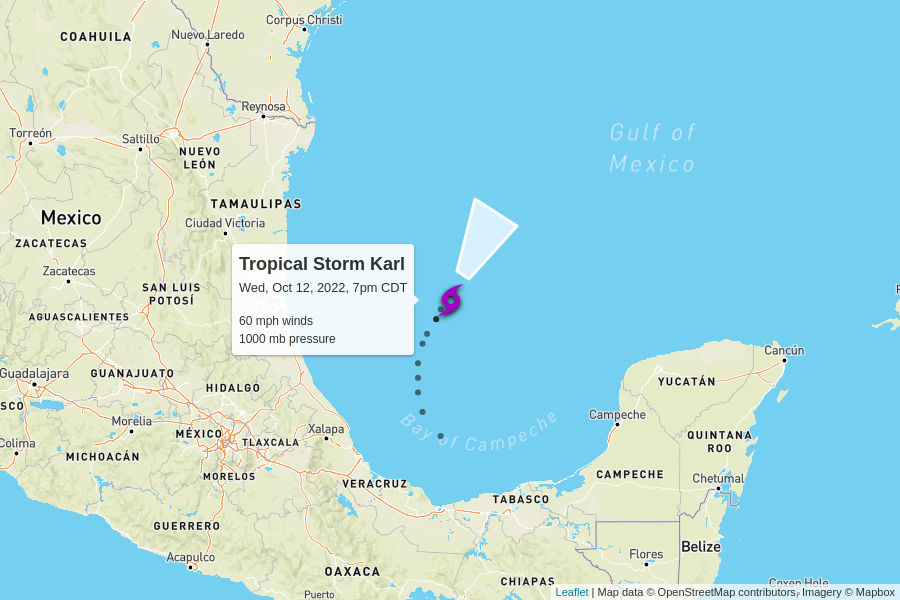
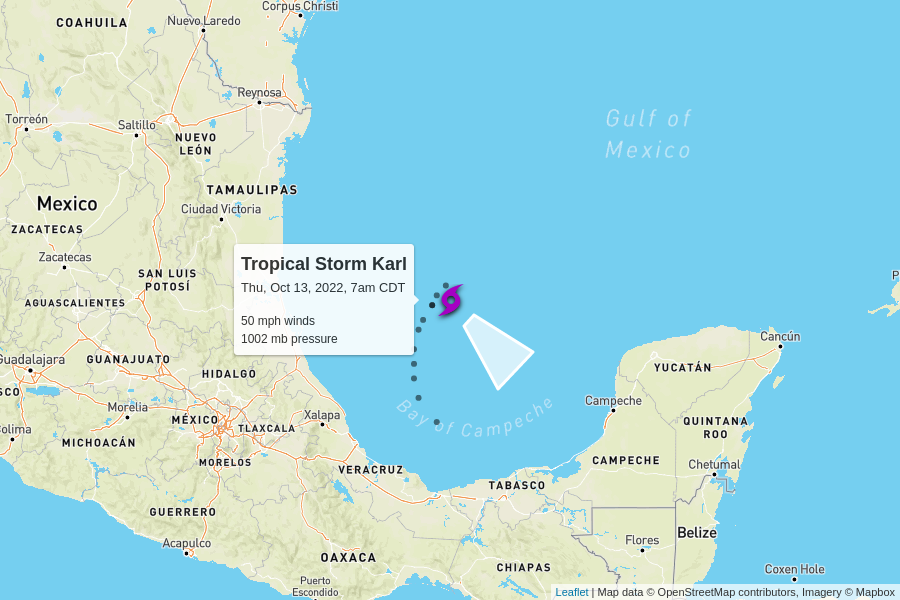
automatic update

diff --git a/docs/index.html b/docs/index.html
@@ -100,7 +100,7 @@
         <td colspan="6" class="storm category-0" >
           <h2>
             Tropical Storm Karl
-            <p class="updated">last updated <span data-time>2022-10-13T00:00:00.000Z</span></p>
+            <p class="updated">last updated <span data-time>2022-10-13T12:00:00.000Z</span></p>
           </h2>
         </td>
       </tr>
@@ -115,12 +115,12 @@
       </tr>
       <tr>
         <td class="spacer"></td>
-        <td>60 mph</td>
-        <td>1000 mb</td>
+        <td>50 mph</td>
+        <td>1002 mb</td>
         <td>
-          3 mph to the north-northeast
+          2 mph to the southeast
           <br/>
-          <span style="display: inline-block; font-size: 1.5em; transform: rotate(30deg);">↑</span>
+          <span style="display: inline-block; font-size: 1.5em; transform: rotate(135deg);">↑</span>
         </td>
         <td><a href="https://raw.githubusercontent.com/mgwalker/atlantic-hurricanes/main/data/csv/AL142022.csv">AL142022.csv</a></td>
         <td><a href="https://www.nhc.noaa.gov/archive/2022/KARL.shtml?">NHC advisories</a></td>
